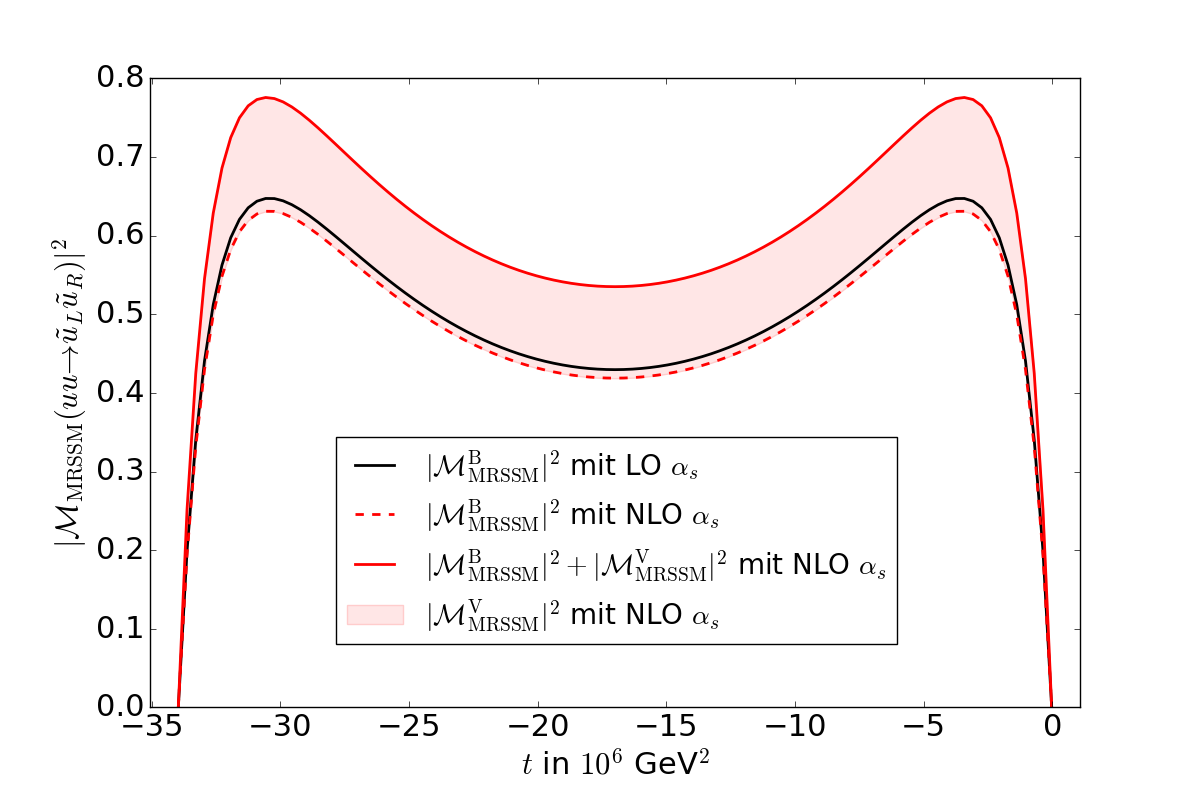
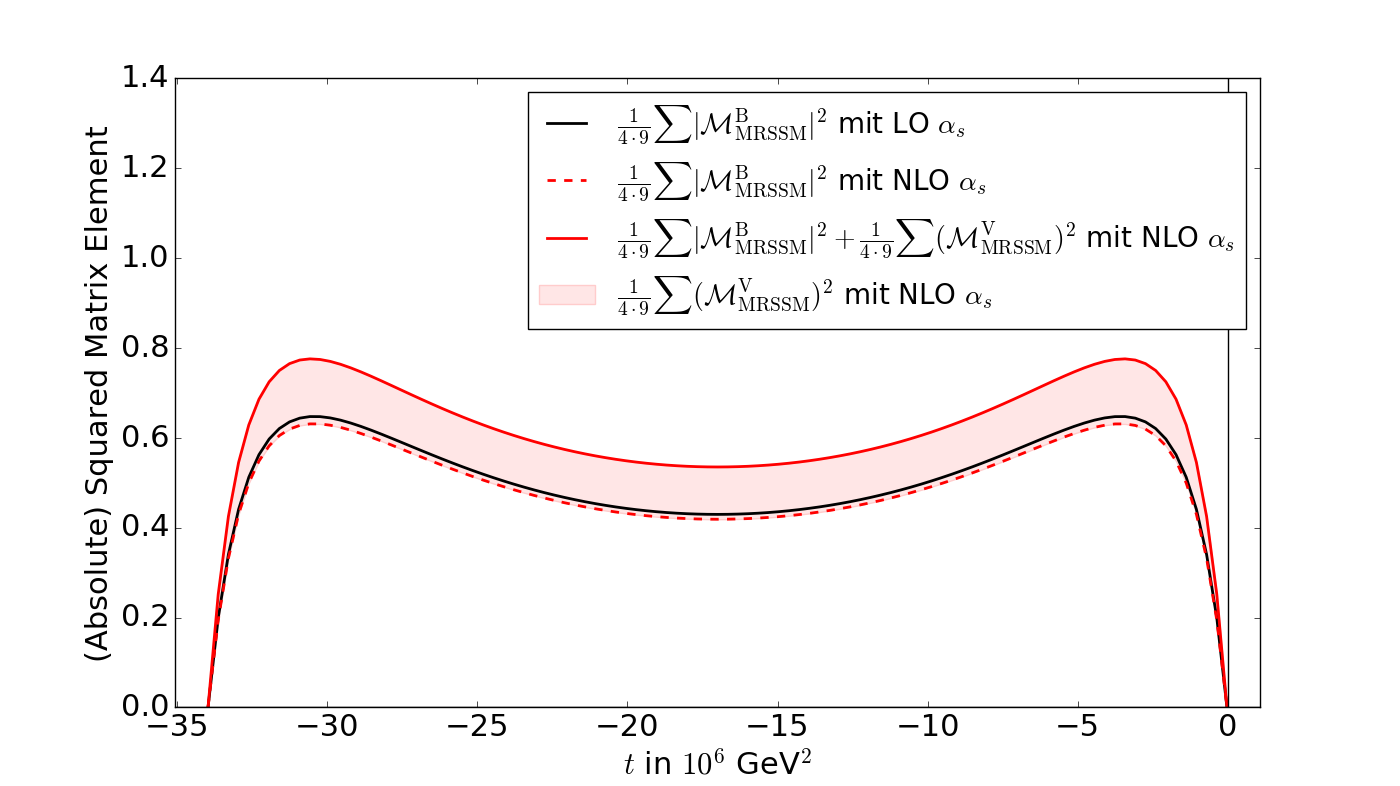
matrix amplitude plots with self-energy, vertices and boxes contributions

diff --git a/figures/MatrixEl/MatrixEl.py b/figures/MatrixEl/MatrixEl.py
@@ -15,6 +15,9 @@ matrix_NLO_Tree = np.array([], dtype=float);
 matrix_NLO_Virt = np.array([], dtype=float);
 matrix_NLO_Single = np.array([], dtype=float);
 matrix_NLO_Double   = np.array([], dtype=float);
+matrix_NLO_SE = np.array([], dtype=float);
+matrix_NLO_Vertex = np.array([], dtype=float);
+matrix_NLO_Boxes = np.array([], dtype=float);
 
 
 f_matrix = open('MatrixEl_Virt_uu_susu.txt', 'r')
@@ -28,30 +31,73 @@ for lines in f_matrix.readlines():
     matrix_NLO_Double = np.append(matrix_NLO_Double, float(lines.split()[5]))    
 f_matrix.close()
 
+f_SE = open('MatrixEl_SE_uu_susu.txt', 'r')
+discard = f_SE.readline()
+for lines in f_SE.readlines():
+    discard = np.append(discard, float(lines.split()[0]))
+    discard = np.append(discard, float(lines.split()[1]))
+    discard = np.append(discard, float(lines.split()[2]))
+    matrix_NLO_SE = np.append(matrix_NLO_SE, float(lines.split()[3]))
+    discard = np.append(discard, float(lines.split()[4]))
+    discard = np.append(discard, float(lines.split()[5]))    
+f_SE.close()
 
-fig = plt.figure(1,figsize=(12, 9))
+f_Vertex = open('MatrixEl_Vertex_uu_susu.txt', 'r')
+discard = f_Vertex.readline()
+for lines in f_Vertex.readlines():
+    discard = np.append(discard, float(lines.split()[0]))
+    discard = np.append(discard, float(lines.split()[1]))
+    discard = np.append(discard, float(lines.split()[2]))
+    matrix_NLO_Vertex = np.append(matrix_NLO_Vertex, float(lines.split()[3]))
+    discard = np.append(discard, float(lines.split()[4]))
+    discard = np.append(discard, float(lines.split()[5]))    
+f_Vertex.close()
+
+f_Boxes = open('MatrixEl_Boxes_uu_susu.txt', 'r')
+discard = f_Boxes.readline()
+for lines in f_Boxes.readlines():
+    discard = np.append(discard, float(lines.split()[0]))
+    discard = np.append(discard, float(lines.split()[1]))
+    discard = np.append(discard, float(lines.split()[2]))
+    matrix_NLO_Boxes = np.append(matrix_NLO_Boxes, float(lines.split()[3]))
+    discard = np.append(discard, float(lines.split()[4]))
+    discard = np.append(discard, float(lines.split()[5]))    
+f_Boxes.close()
+
+
+fig = plt.figure(1,figsize=(14, 9))
 
 first_window = plt.subplot(111)
 plt.rcParams.update({'font.size': 22})
 plt.xlabel(r"$t$ in $10^6$ GeV$^2$")#, size = 22)
 
 # plot without poles
-plt.ylabel(r"$|\mathcal{M}_{\mathrm{MRSSM}}(uu \to \tilde{u}_L\tilde{u}_R)|^2$")
-plt.axis([min(t/10**6) - 1.1,max(t/10**6) + 1.1,0,0.8])
-plt.plot(t/10**6, matrix_LO_Tree, lw=2, ls="-", c='black', label = r"$|\mathcal{M}^{\mathrm{B}}_{\mathrm{MRSSM}}|^2$ mit LO $\alpha_s$")
-plt.plot(t/10**6, matrix_NLO_Tree, lw=2, ls="--", c='red', label = r"$|\mathcal{M}^{\mathrm{B}}_{\mathrm{MRSSM}}|^2$ mit NLO $\alpha_s$")
-plt.plot(t/10**6, matrix_NLO_Tree+matrix_NLO_Virt, lw=2, ls="-", c='red', label = r"$|\mathcal{M}^{\mathrm{B}}_{\mathrm{MRSSM}}|^2 + |\mathcal{M}^{\mathrm{V}}_{\mathrm{MRSSM}}|^2$ mit NLO $\alpha_s$")
-first_window.fill_between(t/10**6, matrix_NLO_Tree, matrix_NLO_Tree+matrix_NLO_Virt, 
-facecolor=[1,90./100,90./100], color =[1,80./100,80./100], linestyle="-", label = r"$|\mathcal{M}^{\mathrm{V}}_{\mathrm{MRSSM}}|^2$ mit NLO $\alpha_s$")
-plt.legend(loc=(0.2,0.1),prop={'size':20})
+#plt.ylabel("(Absolute) Squared Matrix Element")
+#plt.axis([min(t/10**6) - 1.1,max(t/10**6) + 1.1,0,1.4])
+#plt.plot(t/10**6, matrix_LO_Tree, lw=2, ls="-", c='black', label = r"$\frac{1}{4\cdot 9}\sum|\mathcal{M}^{\mathrm{B}}_{\mathrm{MRSSM}}|^2$ mit LO $\alpha_s$")
+#plt.plot(t/10**6, matrix_NLO_Tree, lw=2, ls="--", c='red', label = r"$\frac{1}{4\cdot 9}\sum|\mathcal{M}^{\mathrm{B}}_{\mathrm{MRSSM}}|^2$ mit NLO $\alpha_s$")
+#plt.plot(t/10**6, matrix_NLO_Tree+matrix_NLO_Virt, lw=2, ls="-", c='red', label = r"$\frac{1}{4\cdot 9}\sum|\mathcal{M}^{\mathrm{B}}_{\mathrm{MRSSM}}|^2 + \frac{1}{4\cdot 9}\sum(\mathcal{M}^{\mathrm{V}}_{\mathrm{MRSSM}})^2$ mit NLO $\alpha_s$")
+#first_window.fill_between(t/10**6, matrix_NLO_Tree, matrix_NLO_Tree+matrix_NLO_Virt, 
+#facecolor=[1,90./100,90./100], color =[1,80./100,80./100], linestyle="-", label = r"$\frac{1}{4\cdot 9}\sum(\mathcal{M}^{\mathrm{V}}_{\mathrm{MRSSM}})^2$ mit NLO $\alpha_s$")
 
 # plot with poles
-#plt.ylabel(r"$|\mathcal{M}^{\mathrm{V}}_{\mathrm{MRSSM}}(uu \to \tilde{u}_L\tilde{u}_R)|^2$")
-#plt.axis([min(t/10**6) - 1.1,max(t/10**6) + 1.1,-0.05,0.15])
-#plt.plot(t/10**6, matrix_NLO_Virt, lw=2, ls="-", c='black', label = r"finite part of $|\mathcal{M}^{\mathrm{V}}_{\mathrm{MRSSM}}|^2$")
-#plt.plot(t/10**6, matrix_NLO_Single, lw=2, ls="-", c='red', label = r"single pole of $|\mathcal{M}^{\mathrm{V}}_{\mathrm{MRSSM}}|^2$")
-#plt.plot(t/10**6, matrix_NLO_Double, lw=2, ls="-", c='blue', label = r"double pole of $|\mathcal{M}^{\mathrm{V}}_{\mathrm{MRSSM}}|^2$")
-#plt.legend(loc=(0.25,0.2),prop={'size':20})
+#plt.ylabel(r"$\frac{1}{4\cdot 9}\sum\left(\mathcal{M}^{\mathrm{V}}_{\mathrm{MRSSM}}(uu \to \tilde{u}_L\tilde{u}_R)\right)^2$")
+#plt.axis([min(t/10**6) - 1.1,max(t/10**6) + 1.1,-0.05,0.25])
+#plt.plot(t/10**6, matrix_NLO_Virt, lw=2, ls="-", c='black', label = r"finite part of $\frac{1}{4\cdot 9}\sum(\mathcal{M}^{\mathrm{V}}_{\mathrm{MRSSM}})^2$")
+#plt.plot(t/10**6, matrix_NLO_Single, lw=2, ls="-", c='red', label = r"single pole of $\frac{1}{4\cdot 9}\sum(\mathcal{M}^{\mathrm{V}}_{\mathrm{MRSSM}})^2$")
+#plt.plot(t/10**6, matrix_NLO_Double, lw=2, ls="-", c='blue', label = r"double pole of $\frac{1}{4\cdot 9}\sum(\mathcal{M}^{\mathrm{V}}_{\mathrm{MRSSM}})^2$")
 
+# different contributions to |M|^2
+plt.ylabel(r"$\frac{1}{4\cdot 9}\sum(\mathcal{M}_{\mathrm{MRSSM}}(uu \to \tilde{u}_L\tilde{u}_R))^2$")
+plt.axis([min(t/10**6) - 1.1,max(t/10**6) + 1.1,-0.3,0.6])
+plt.plot(t/10**6, matrix_NLO_SE, lw=2, ls="--", c='green', label = r"$\frac{1}{4\cdot 9}\sum(\mathcal{M}^{\mathrm{Self-Energy}}_{\mathrm{MRSSM}})^2$")
+plt.plot(t/10**6, matrix_NLO_Vertex, lw=2, ls="--", c='red', label = r"$\frac{1}{4\cdot 9}\sum(\mathcal{M}^{\mathrm{Vertices}}_{\mathrm{MRSSM}})^2$")
+plt.plot(t/10**6, matrix_NLO_Boxes, lw=2, ls="--", c='blue', label = r"$\frac{1}{4\cdot 9}\sum(\mathcal{M}^{\mathrm{Boxes}}_{\mathrm{MRSSM}})^2$")
+plt.plot(t/10**6, matrix_NLO_Virt, lw=2, ls="-", c='black', label = r"$\frac{1}{4\cdot 9}\sum(\mathcal{M}^{\mathrm{V}}_{\mathrm{MRSSM}})^2$")
+#plt.plot(t/10**6, matrix_NLO_SE + matrix_NLO_Vertex + matrix_NLO_Boxes, lw=2, ls="--", c='green', label = "summed")
+
+plt.legend(loc=1,prop={'size':20})
+first_window.axhline(y=0, color='k')
+first_window.axvline(x=0, color='k')
 plt.show()
 plt.draw()

diff --git a/Virt_Real.tex b/Virt_Real.tex
@@ -7,7 +7,7 @@ Reason validity of perturbation theory in this context.
 \subsection{Virtual Correction}
 According to quantum field theory the $\mathcal{O}(\alpha_s)$ correction to a tree level process includes the computation of one-loop diagrams such as shown in fig. \ref{fig:1loopdiagrams}. To yield $\mathcal{O}(\alpha_s)$ corrections in the cross section the interference term between the one-loop amplitude $\mathcal{M}^{\mathrm{1L}}$ and the Born amplitude $\mathcal{M}^{\mathrm{B}}$ needs to be considered. However the virtual amplitude 
 \begin{align}
-\mathcal{M}^{\mathrm{V}} = \mathcal{M}^{\mathrm{B}} \mathcal{M}^{\mathrm{1L}\ast} + \mathcal{M}^{\mathrm{1L}} \mathcal{M}^{\mathrm{B}\ast} = 2 \Re \left( \mathcal{M}^{\mathrm{B}} \mathcal{M}^{\mathrm{1L}\ast} \right)
+\left( \mathcal{M}^{\mathrm{V}} \right)^2 = \mathcal{M}^{\mathrm{B}} \mathcal{M}^{\mathrm{1L}\ast} + \mathcal{M}^{\mathrm{1L}} \mathcal{M}^{\mathrm{B}\ast} = 2 \Re \left( \mathcal{M}^{\mathrm{B}} \mathcal{M}^{\mathrm{1L}\ast} \right)
 \end{align}
 contains divergences. These come from integrals over undetermined momentum and energy of particles running in loops.
 \begin{figure}[!htbp]
